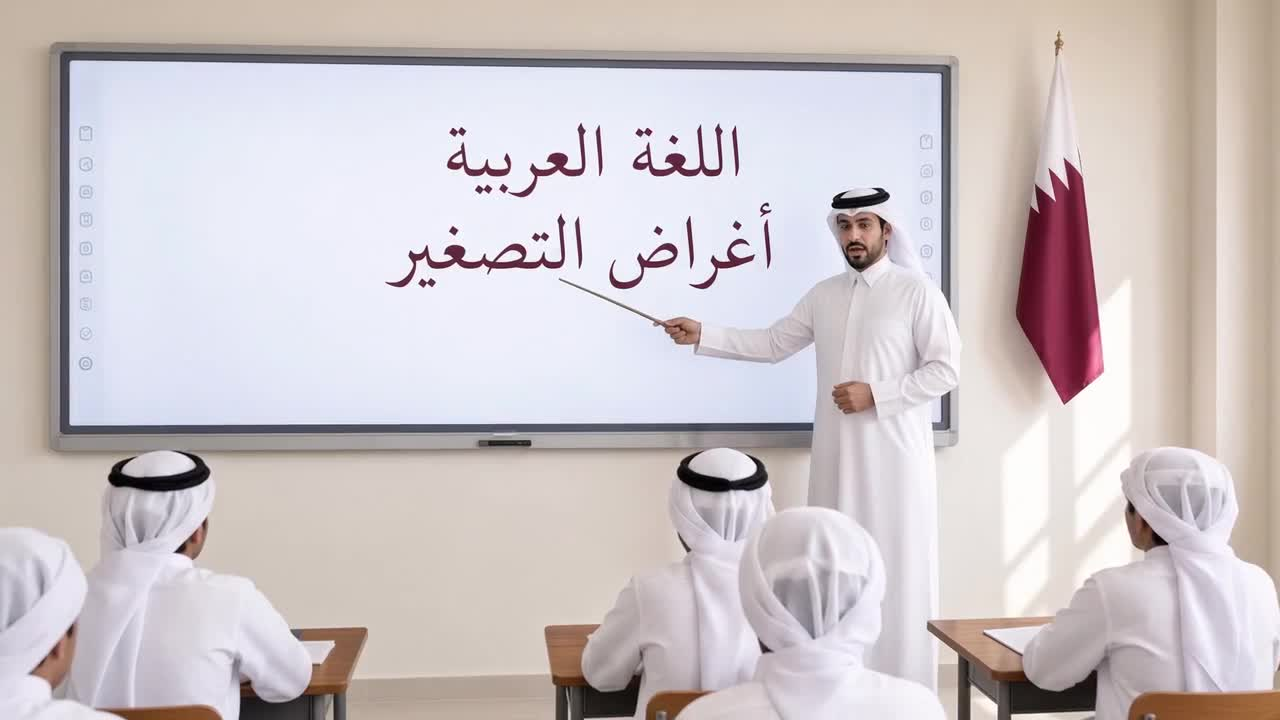
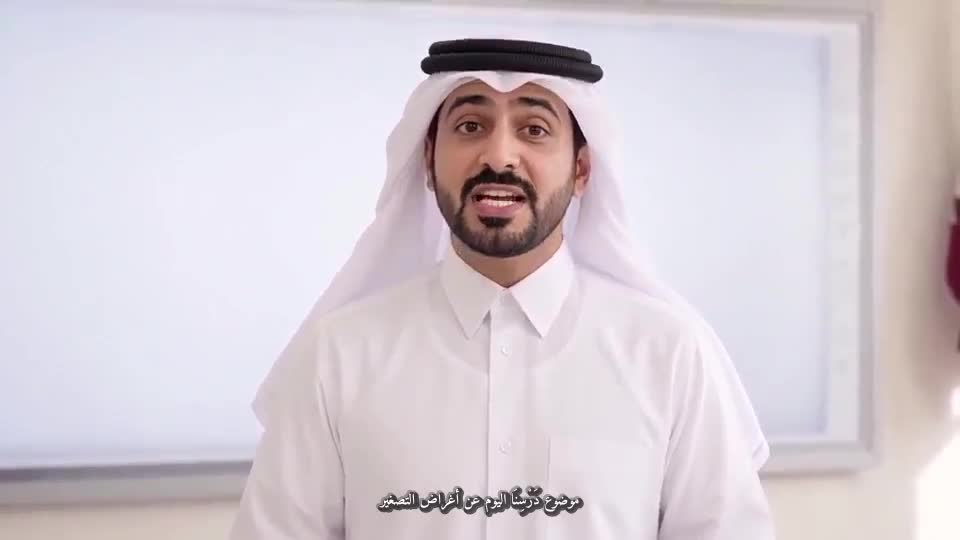
معلم جديد في المقدمة يواجه الطلاب

diff --git a/index.html b/index.html
@@ -103,7 +103,7 @@
     <p class="tip"><b>إرشاد المعلم:</b> شغّل التهيئة. الطلاب ينظرون إليك بلا رفع أيدٍ ولا التفات. بعدها انتقل للاسترجاع.</p>
     <div class="stage">
       <video id="v" poster="media/open31.jpg" playsinline webkit-playsinline preload="none" controlslist="nodownload">
-        <source src="media/tahyia-face.mp4" type="video/mp4">
+        <source src="media/tahyia-new.mp4" type="video/mp4">
       </video>
       <button class="play" id="playbtn" type="button">
         <span>تشغيل التهيئة بالصوت<small>دقيقة ونصف · أغراض التصغير</small></span>
